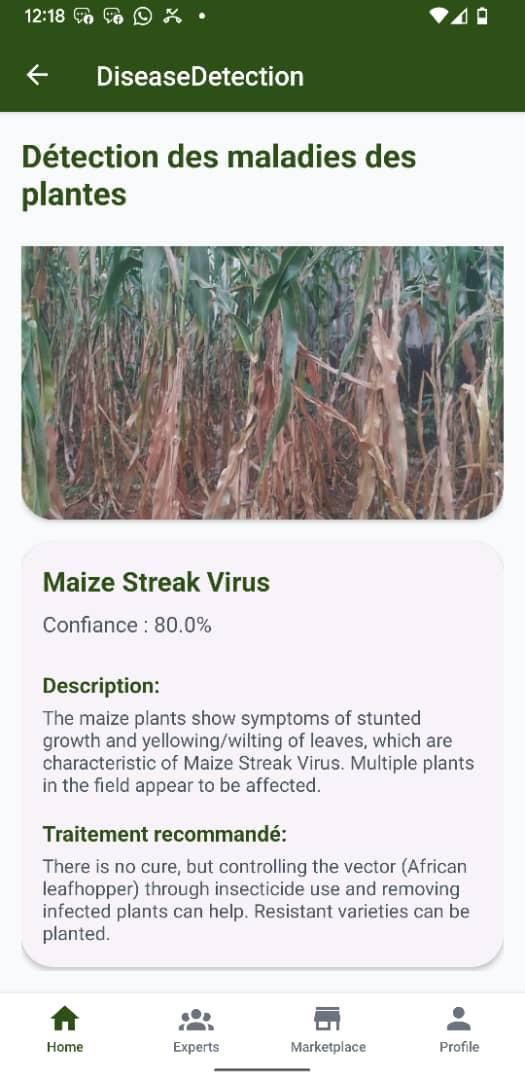
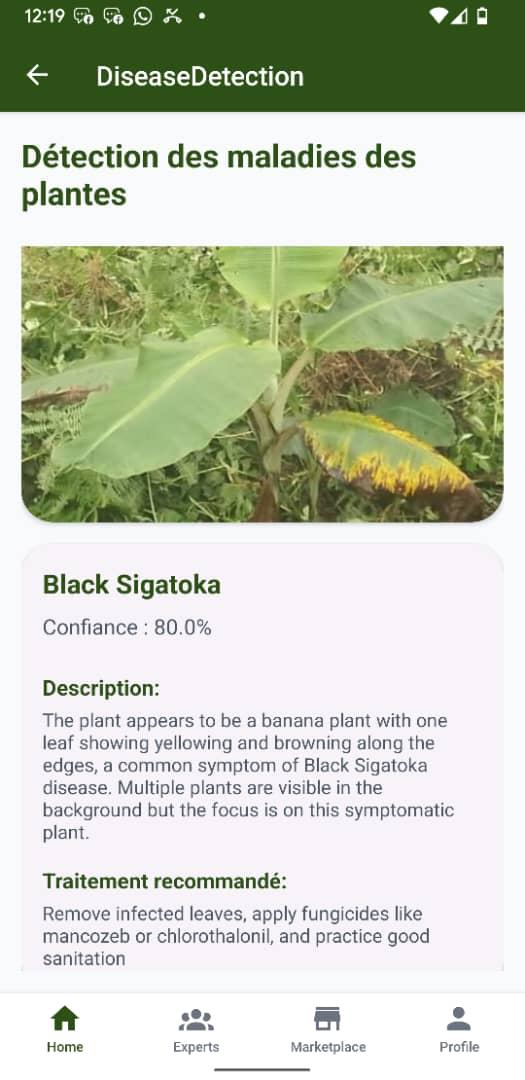
Fix cover visibility, add voice/language features, remove Albert from team

diff --git a/competition_docs/generate_prototype_pdf.py b/competition_docs/generate_prototype_pdf.py
@@ -291,7 +291,7 @@ def draw_cover(canvas, doc):
     canvas.circle(PAGE_W * 0.7, PAGE_H * 0.1, 90, fill=1, stroke=0)
 
     # Top badge
-    canvas.setFillColor(HexColor("#FFFFFF20"))
+    canvas.setFillColor(HexColor("#4A7C2E"))
     canvas.roundRect(PAGE_W/2 - 160, PAGE_H - 100, 320, 36, 18, fill=1, stroke=0)
     canvas.setFillColor(WHITE)
     canvas.setFont("Helvetica-Bold", 11)
@@ -304,17 +304,17 @@ def draw_cover(canvas, doc):
 
     # Subtitle
     canvas.setFont("Helvetica", 16)
-    canvas.setFillColor(HexColor("#C8E6C9"))
+    canvas.setFillColor(HexColor("#76FF03"))
     canvas.drawCentredString(PAGE_W/2, PAGE_H - 235,
                              "AI-Powered Agricultural Support Platform")
 
     # Divider line
-    canvas.setStrokeColor(ACCENT_ORANGE)
+    canvas.setStrokeColor(HexColor("#76FF03"))
     canvas.setLineWidth(3)
     canvas.line(PAGE_W/2 - 80, PAGE_H - 260, PAGE_W/2 + 80, PAGE_H - 260)
 
     # "APP PROTOTYPE" label
-    canvas.setFillColor(ACCENT_ORANGE)
+    canvas.setFillColor(HexColor("#76FF03"))
     canvas.setFont("Helvetica-Bold", 22)
     canvas.drawCentredString(PAGE_W/2, PAGE_H - 300, "APP PROTOTYPE")
 
@@ -326,7 +326,7 @@ def draw_cover(canvas, doc):
     # Stats boxes
     stats = [
         ("20+", "Screens"),
-        ("6", "User Flows"),
+        ("8", "User Flows"),
         ("AI", "Powered"),
         ("2", "Languages"),
     ]
@@ -337,17 +337,20 @@ def draw_cover(canvas, doc):
 
     for i, (val, label) in enumerate(stats):
         bx = start_x + i * (box_w + 12)
-        canvas.setFillColor(Color(1, 1, 1, 0.1))
+        canvas.setFillColor(HexColor("#4A7C2E"))
         canvas.roundRect(bx, y_stat, box_w, box_h, 8, fill=1, stroke=0)
-        canvas.setFillColor(WHITE)
+        canvas.setStrokeColor(HexColor("#76FF03"))
+        canvas.setLineWidth(1)
+        canvas.roundRect(bx, y_stat, box_w, box_h, 8, fill=0, stroke=1)
+        canvas.setFillColor(HexColor("#76FF03"))
         canvas.setFont("Helvetica-Bold", 22)
         canvas.drawCentredString(bx + box_w/2, y_stat + 30, val)
-        canvas.setFillColor(HexColor("#C8E6C9"))
-        canvas.setFont("Helvetica", 10)
+        canvas.setFillColor(WHITE)
+        canvas.setFont("Helvetica-Bold", 10)
         canvas.drawCentredString(bx + box_w/2, y_stat + 12, label)
 
     # Team info
-    canvas.setFillColor(HexColor("#A5D6A7"))
+    canvas.setFillColor(WHITE)
     canvas.setFont("Helvetica", 10)
     canvas.drawCentredString(PAGE_W/2, y_stat - 40,
                              "ICT & Agritech  |  Cameroon  |  March 2026")
@@ -357,12 +360,12 @@ def draw_cover(canvas, doc):
     canvas.setFont("Helvetica-Bold", 11)
     canvas.drawCentredString(PAGE_W/2, 100,
                              "Team YCD  —  University of Buea")
-    canvas.setFillColor(HexColor("#A5D6A7"))
+    canvas.setFillColor(WHITE)
     canvas.setFont("Helvetica", 9)
     canvas.drawCentredString(PAGE_W/2, 82,
-                             "Laurent Joel  •  Ikome Johnson  •  Albert Teghen  •  Ndinguru Hope  •  Stanley Lem-Mola")
+                             "Laurent Joel  •  Ikome Johnson  •  Ndinguru Hope  •  Stanley Lem-Mola")
     canvas.drawCentredString(PAGE_W/2, 66,
-                             "Software Eng. | Network Eng. | Environment | Agriculture | Microbiology")
+                             "Software Eng. | Network Eng. | Agriculture | Microbiology")
 
     canvas.restoreState()
 
@@ -536,8 +539,12 @@ def build_pdf():
     story.append(Spacer(1, 8))
     story.append(Paragraph(
         "An intelligent chat assistant that answers farming questions in natural "
-        "language. Supports voice input (Whisper V3) and provides region-specific "
-        "advice on planting schedules, soil management, pest control, and more.",
+        "language. Farmers can speak to the AI using voice input in <b>English or French</b> "
+        "(powered by Whisper V3 speech-to-text), making it accessible even for farmers "
+        "with limited literacy. The AI provides region-specific advice on planting schedules, "
+        "soil management, pest control, and more. <b>In our roadmap, we plan to add support "
+        "for Cameroonian local languages</b> including Pidgin, Ewondo, Fulfulde, Duala, "
+        "and Bamiléké to reach even more rural communities.",
         style_body
     ))
     story.append(Spacer(1, 8))
@@ -551,9 +558,10 @@ def build_pdf():
 
     ai_features = [
         ("💬", "Natural Chat", "Ask questions in English or French, get expert-level answers"),
-        ("🎤", "Voice Input", "Whisper V3 speech-to-text for hands-free use in the field"),
+        ("🎤", "Voice Input", "Speak to the AI in English or French — Whisper V3 speech-to-text"),
+        ("🗣", "Voice Output", "AI reads responses aloud via Google Cloud Text-to-Speech"),
+        ("🌍", "Local Languages", "Roadmap: Pidgin, Ewondo, Fulfulde, Duala, Bamiléké support"),
         ("🌾", "Context-Aware", "Advice tailored to Cameroon's crops, climate, and soil types"),
-        ("📖", "Farming Guidance", "Step-by-step crop cultivation guides and best practices"),
     ]
     story.append(FeatureBox(ai_features, content_width))
 
@@ -733,9 +741,16 @@ def build_pdf():
     ))
     story.append(Spacer(1, 6))
     story.append(Paragraph(
+        '<b>Voice & Language:</b> The app features full voice interaction in English and French, '
+        'allowing farmers to speak their questions and hear AI responses aloud. '
+        'Our roadmap includes adding Cameroonian local languages (Pidgin, Ewondo, '
+        'Fulfulde, Duala, Bamiléké) to make the platform truly inclusive for rural communities.',
+        style_body
+    ))
+    story.append(Spacer(1, 6))
+    story.append(Paragraph(
         '<b>Scalability:</b> Designed for multi-country expansion across sub-Saharan Africa. '
-        'AI models can be fine-tuned for local crops and diseases in any region. '
-        'Roadmap includes Pidgin, Ewondo, Fulfulde, Duala, and Bamiléké language support.',
+        'AI models can be fine-tuned for local crops and diseases in any region.',
         style_body
     ))
 
